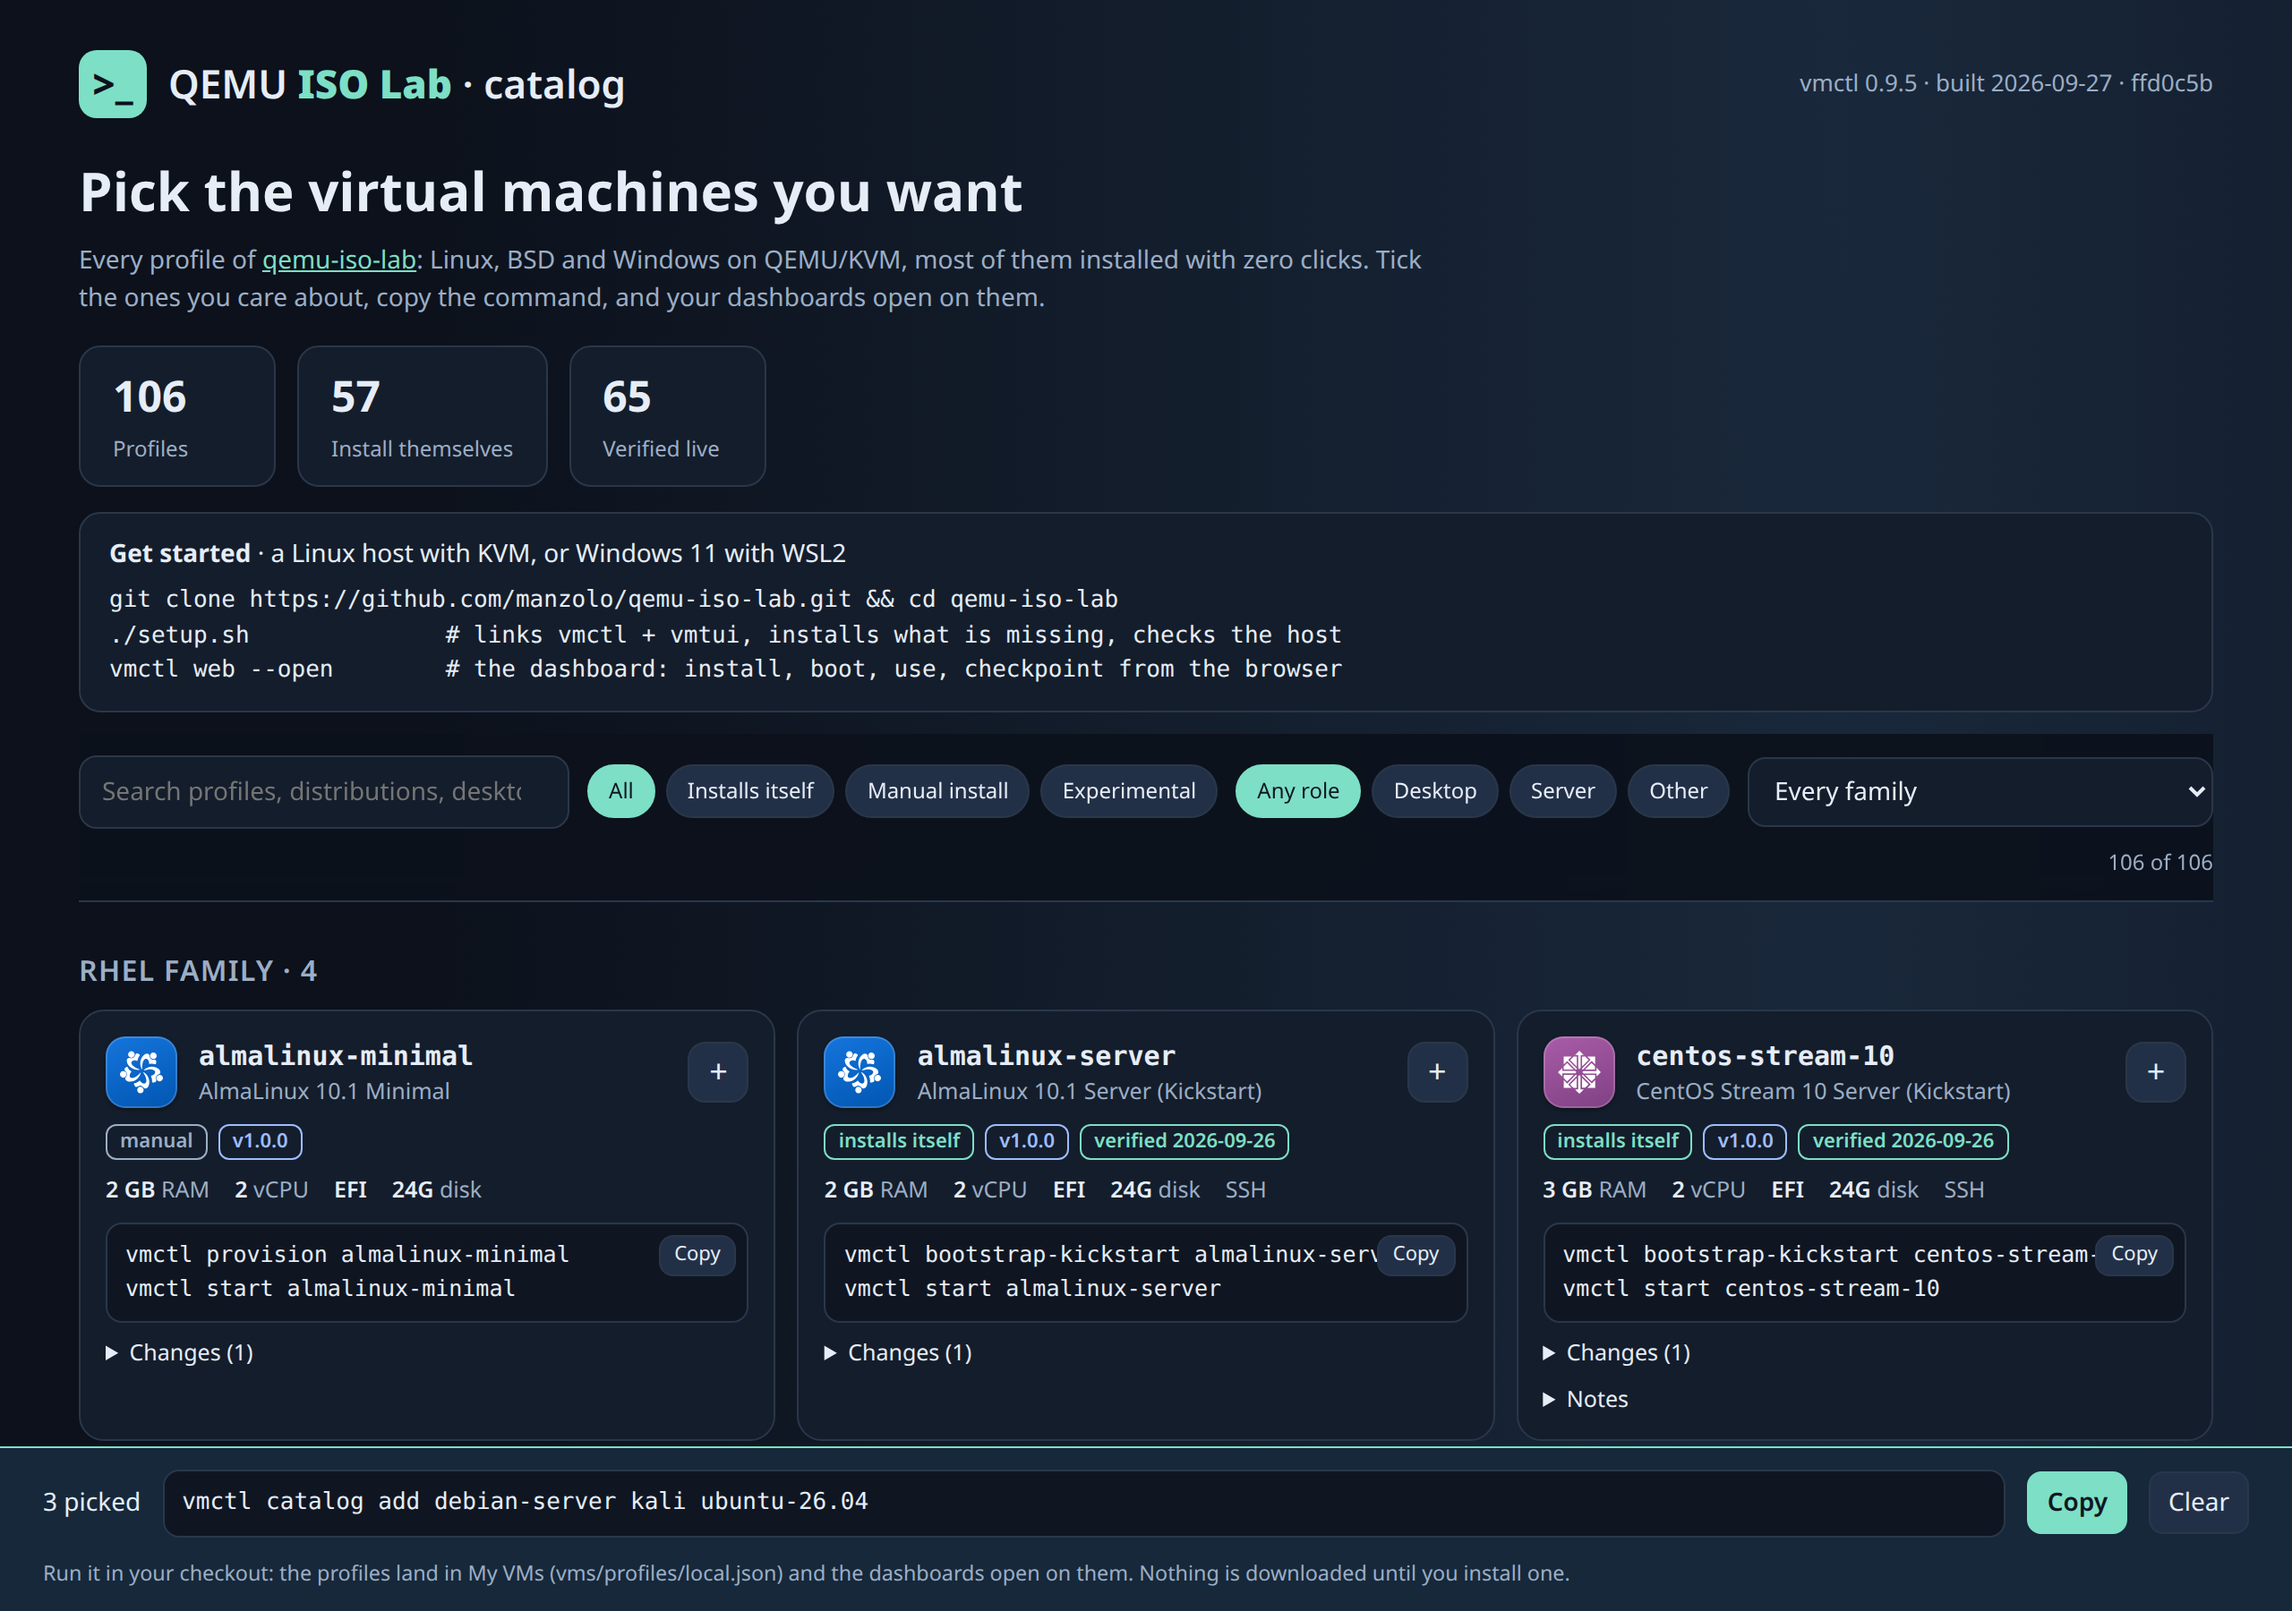
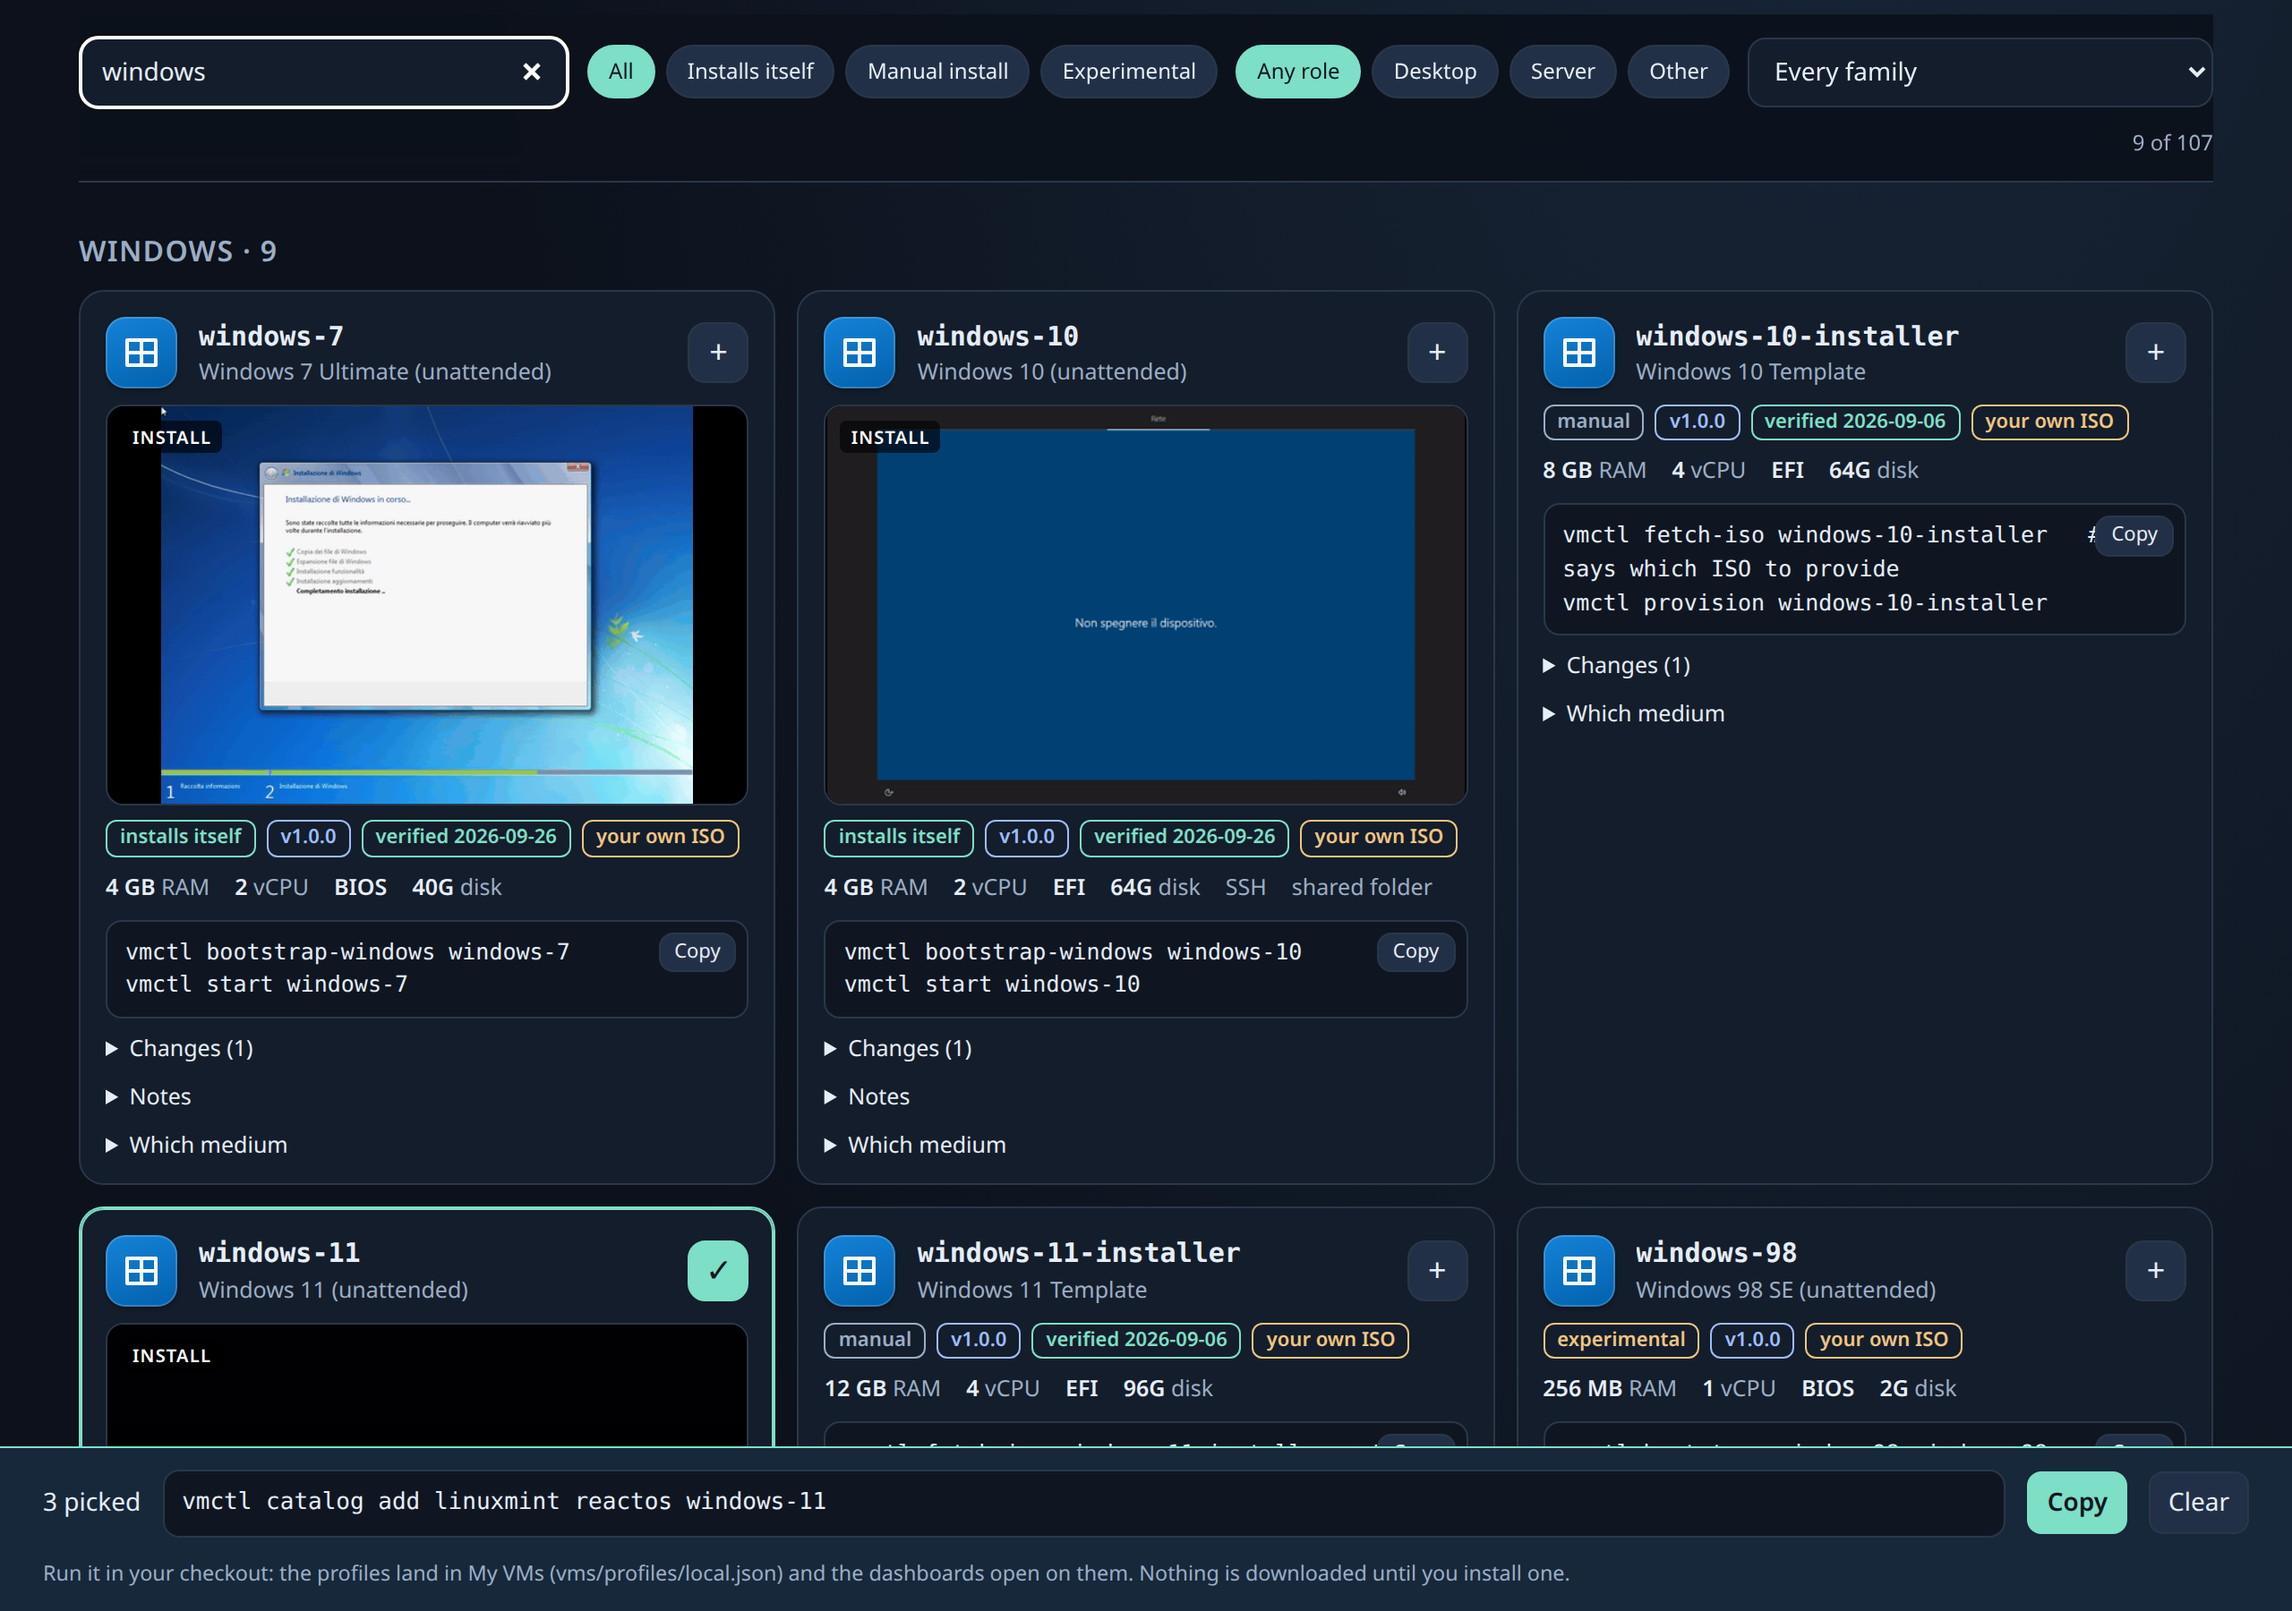
README: the catalog cards show a clip of each install; screenshot re-shot; last matrix run
The catalog section and the intro now say each unattended profile's card carries a clip
recorded by check-vms --record; docs/screenshots/catalog-site.png shows the cards with their
clips; the "tested for real" line reports the run of 2026-09-27 (60 of 61 rows, the failure a
vmctl bug fixed since).

Claude-Session: https://claude.ai/code/session_01Lv6GsmrdhX6ymSWyUjgkz3

diff --git a/README.md b/README.md
@@ -14,7 +14,7 @@ dashboard (`vmtui`) or the CLI (`vmctl`), all sharing the same profiles, VM stat
 - **100+ profiles**, more than half of them fully unattended: every Ubuntu LTS since 8.04, Debian,
   Fedora, Arch, NixOS, openSUSE, FreeBSD, Haiku, ReactOS and Windows from 11 back to NT 4,
   plus hobby systems to boot and explore (KolibriOS, Redox OS, MenuetOS, SerenityOS).
-  Browse them at [manzolo.github.io/qemu-iso-lab](https://manzolo.github.io/qemu-iso-lab/).
+  Browse them, with a clip of each install, at [manzolo.github.io/qemu-iso-lab](https://manzolo.github.io/qemu-iso-lab/).
 - **My VMs**: choose the profiles you care about; the dashboards open on them and nothing is
   downloaded until you install one. Every profile is versioned, with its changelog.
 - **Labs**: groups of VMs on a private network, installed and started as one stack (a pfSense +
@@ -22,8 +22,8 @@ dashboard (`vmtui`) or the CLI (`vmctl`), all sharing the same profiles, VM stat
 - **In your browser**: live VM screens, interactive SSH, searchable commands, job logs and
   local profile customization, served on 127.0.0.1.
 - **Tested for real**: every unattended profile is reinstalled from scratch by a local
-  validation matrix; the last full run (2026-09-26) was 58 PASS and one Haiku timeout that
-  passed when re-run alone.
+  validation matrix; the last full run (2026-09-27) passed 60 of 61 rows, the one failure a
+  vmctl bug on a disk-image profile (SerenityOS), fixed the next morning.
 
 ![The web dashboard: My VMs, two of them running, the selected one with its actions and facts](docs/screenshots/web-dashboard.png)
 
@@ -125,8 +125,10 @@ Every step gives the equivalent command, for the terminal or a script.
 
 The catalog is large on purpose; you do not have to look at all of it. Browse it online at
 **[manzolo.github.io/qemu-iso-lab](https://manzolo.github.io/qemu-iso-lab/)**: search, filter by
-family, kind of install and role, read each profile's version and changelog, tick the ones you
-want and copy the resulting line:
+family, kind of install and role, and watch each unattended profile install itself: every card
+carries a short clip of a real install, recorded by the validation matrix (`vmctl check-vms
+--record`), from the installer to the installed system. Read each profile's version and changelog,
+tick the ones you want and copy the resulting line:
 
 ```bash
 vmctl catalog add ubuntu-26.04 debian-server kali   # or right-click a row → Add to My VMs
@@ -136,7 +138,7 @@ vmctl catalog                                       # what is chosen; remove, se
 From then on both dashboards open on **My VMs** (your choice, plus whatever is running) and the
 chosen profiles carry a ★. Nothing is downloaded until you install one.
 
-[![The online catalog: cards per profile with version, verification date and commands, three of them picked into a vmctl catalog add line](docs/screenshots/catalog-site.png)](https://manzolo.github.io/qemu-iso-lab/)
+[![The online catalog: cards per profile with the clip of its install, version, verification date and commands, three of them picked into a vmctl catalog add line](docs/screenshots/catalog-site.png)](https://manzolo.github.io/qemu-iso-lab/)
 
 Every profile has a version (`meta.version`, `1.0.0` today) and a history of changes; an install
 records the version it used, so the dashboards tell you when a disk carries an older recipe than
